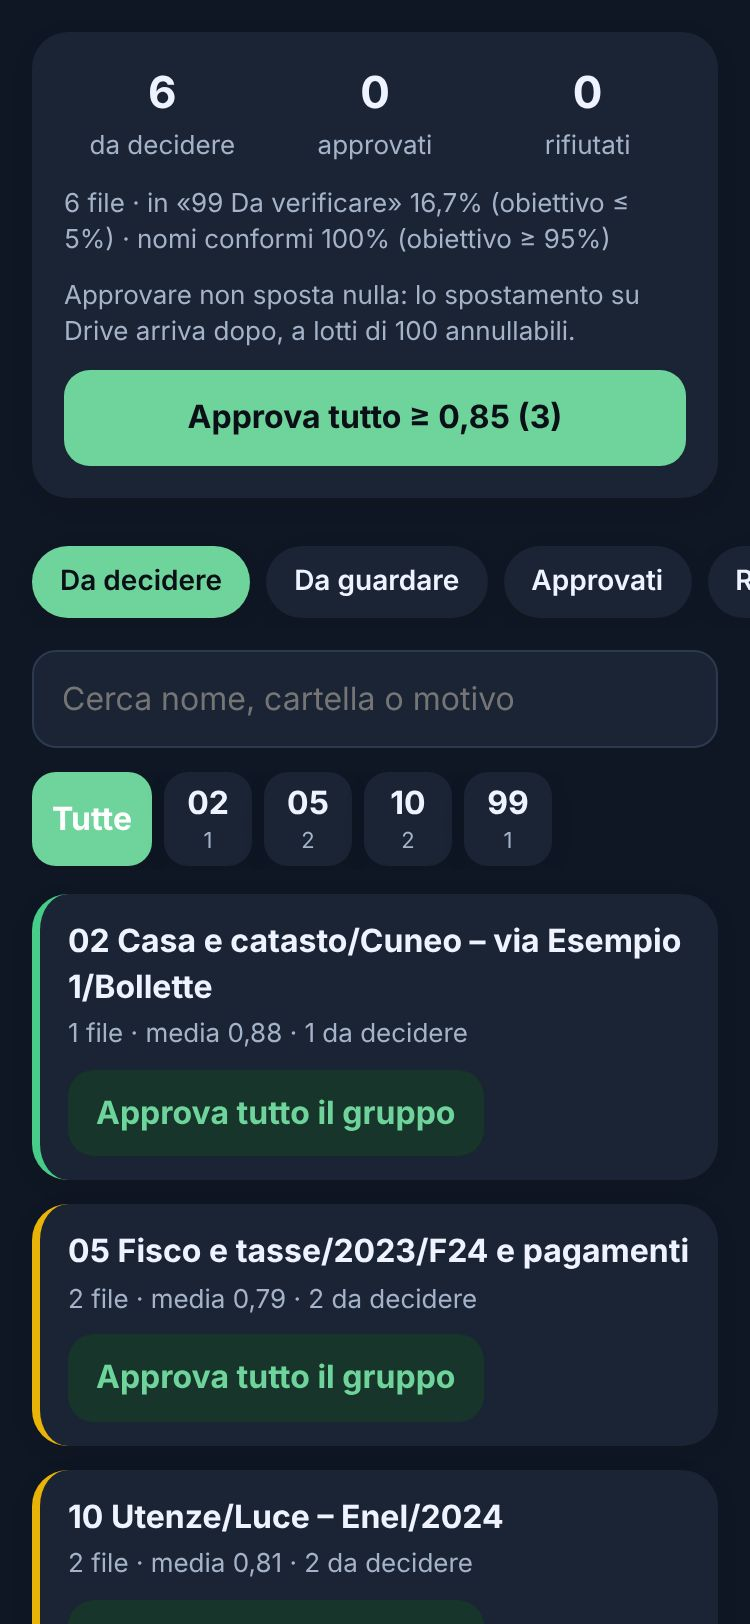
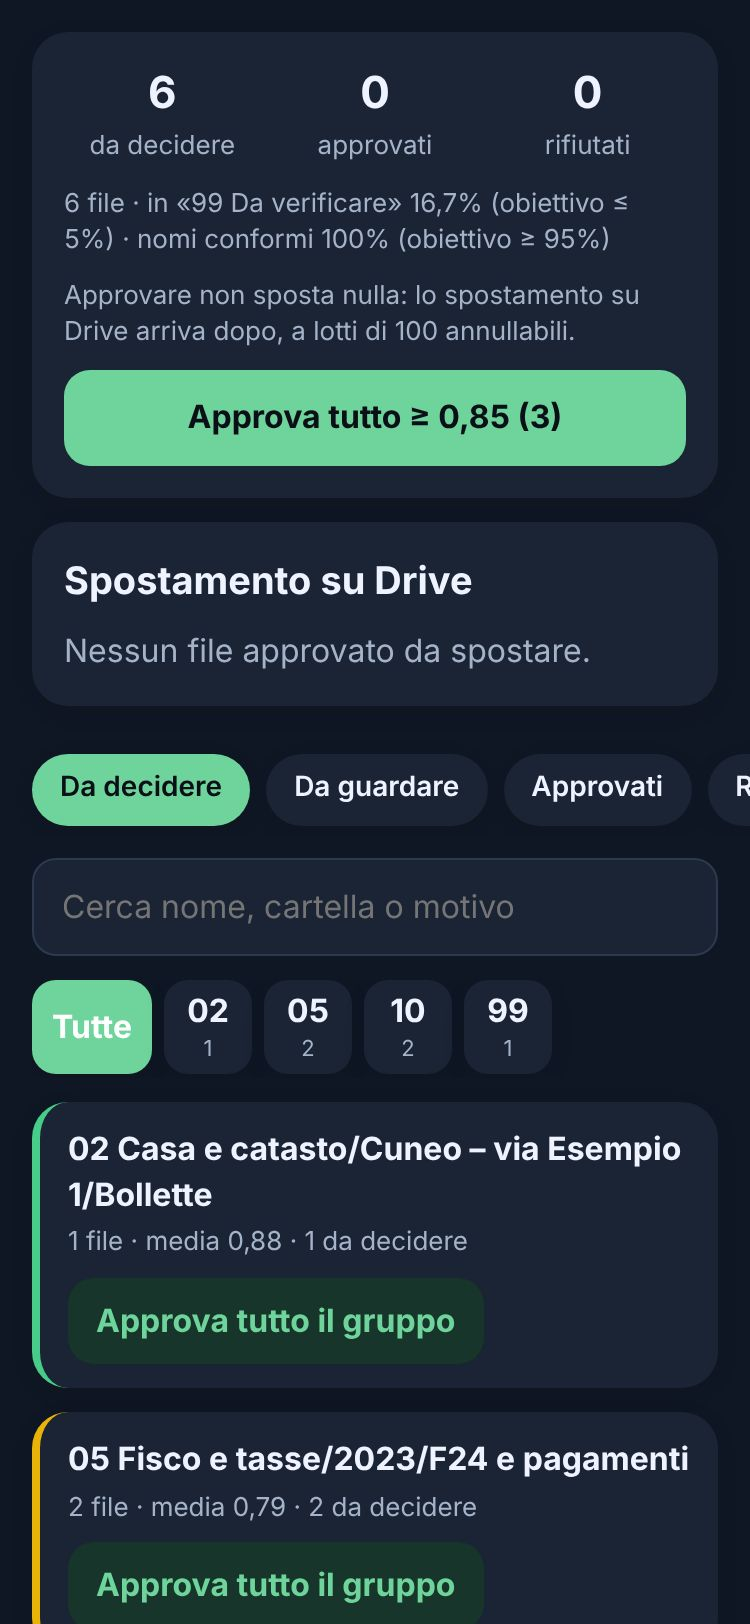
POL-VITA-ORDINA fase 3: spostamento su Drive a lotti di 100 con Annulla lotto
- migrazione: cartelle_mie.categoria_id, log_spostamenti, v_lotti_riordino
- Code.gs: esegui_lotto (solo righe approvate fuori da «99», mai i clinici,
  registro prima di spostare, scorciatoie e mai copie) e annulla_lotto
- Riordino: riquadro «Spostamento su Drive» con l'elenco dei lotti
- test della fase 3; documentazione e stato del task

Claude-Session: https://claude.ai/code/session_01RTzzfYV8weRoRYuhcBumW2

diff --git a/personal/src/sezioni/riordino/Riordino.jsx b/personal/src/sezioni/riordino/Riordino.jsx
@@ -8,11 +8,53 @@ import { Vuoto, Chips, Conferma, tokenSessione } from '../../ui.jsx';
 import {
   caricaPiano, caricaCategorie, approva, rifiuta, riproponi, rinomina, cambiaCartella, importaPiano,
   riepilogo, filtra, raggruppa, radici, livello, confidenzaTesto, controllaNome, FILTRI, SOGLIA_ALTA,
+  eseguiLotto, annullaLotto, caricaLotti, daEseguire,
 } from '../../lib/pianoRiordino.js';
 import './riordino.css';
 
 const STATI = { proposto: 'Da decidere', approvato: 'Approvato', rifiutato: 'Rifiutato', eseguito: 'Eseguito' };
 const MAX_GRUPPI = 60;
+const quando = (t) => new Date(t).toLocaleString('it-IT', { day: 'numeric', month: 'short', hour: '2-digit', minute: '2-digit' });
+
+// Fase 3: sposta su Drive a lotti di 100 le righe approvate; ogni lotto si può annullare.
+function Esecuzione({ righe, db, mostra, ricarica }) {
+  const [lotti, setLotti] = useState([]);
+  const [lavoro, setLavoro] = useState(null);
+  const [errore, setErrore] = useState(null);
+  const aggiornaLotti = useCallback(() => caricaLotti(db).then(setLotti).catch(() => {}), [db]);
+  useEffect(() => { aggiornaLotti(); }, [aggiornaLotti]);
+  const n = daEseguire(righe);
+  const fai = async (chi, f) => {
+    setLavoro(chi); setErrore(null);
+    try { await f(); await ricarica(); await aggiornaLotti(); } catch (e) { setErrore(e.message); } finally { setLavoro(null); }
+  };
+  const esegui = () => fai('esegui', async () => {
+    const r = await eseguiLotto({ token: await tokenSessione() });
+    mostra(`Spostati su Drive ${r.eseguiti} file${r.errori ? `, ${r.errori} non riusciti (restano approvati)` : ''}`);
+  });
+  const annulla = (l) => fai(l.lotto, async () => {
+    const r = await annullaLotto({ token: await tokenSessione(), lotto: l.lotto });
+    mostra(`Lotto annullato: ${r.annullati} file tornati dov'erano`);
+  });
+  return (
+    <section className="rr-carta" aria-label="Esecuzione su Drive">
+      <h2>Spostamento su Drive</h2>
+      <p>{n ? `${n} file approvati da spostare. Si fa a lotti di 100: ogni lotto si può annullare.` : 'Nessun file approvato da spostare.'}</p>
+      {errore && <p className="rr-errore" role="alert">{errore}</p>}
+      {n > 0 && <button type="button" className="pp-bottone" disabled={Boolean(lavoro)} onClick={esegui}>{lavoro === 'esegui' ? 'Sposto…' : `Sposta i prossimi ${Math.min(100, n)}`}</button>}
+      {lotti.length > 0 && (
+        <ul className="rr-lotti">
+          {lotti.map((l) => (
+            <li key={l.lotto}>
+              <span>{quando(l.iniziato_il)} · {l.eseguiti} spostati{l.errori ? ` · ${l.errori} errori` : ''}{l.annullati ? ` · ${l.annullati} annullati` : ''}</span>
+              {l.eseguiti > 0 && <button type="button" className="pp-bottone pp-bottone-chiaro" disabled={Boolean(lavoro)} onClick={() => annulla(l)}>{lavoro === l.lotto ? 'Annullo…' : 'Annulla lotto'}</button>}
+            </li>
+          ))}
+        </ul>
+      )}
+    </section>
+  );
+}
 
 function Riga({ x, aperta, onTocca, onAzione, categorie, ctx }) {
   const [modo, setModo] = useState(null); // 'cartella' | 'nome'
@@ -56,7 +98,7 @@ function Riga({ x, aperta, onTocca, onAzione, categorie, ctx }) {
               </span>
             </div>
           )}
-          {!modo && (
+          {!modo && x.stato !== 'eseguito' && (
             <span className="rr-tasti">
               {x.stato !== 'approvato' && <button type="button" className="pp-bottone" onClick={() => onAzione('approva')}>Approva</button>}
               <button type="button" className="pp-bottone pp-bottone-chiaro" onClick={() => { setValore(''); setModo('cartella'); }}>Cambia cartella</button>
@@ -170,6 +212,7 @@ export function VistaRiordino({ ctx, db = archivioDb }) {
         {chiedi && <Conferma testo={chiedi.testo} etichetta="Approva" onSi={() => { chiedi.fai(); setChiedi(null); }} onNo={() => setChiedi(null)} />}
       </section>
 
+      <Esecuzione righe={righe} db={db} mostra={mostra} ricarica={async () => setRighe(await caricaPiano(db))} />
       <Chips voci={FILTRI.map((f) => [f.id, f.nome])} attiva={filtro} onScegli={(f) => { setFiltro(f); setQuanti(MAX_GRUPPI); }} />
       <input className="rr-cerca" type="search" placeholder="Cerca nome, cartella o motivo" value={testo} onChange={(e) => { setTesto(e.target.value); setQuanti(MAX_GRUPPI); }} aria-label="Cerca nel piano" />
       <div className="rr-indice" role="tablist" aria-label="Cartelle principali">

diff --git a/personal/src/lib/pianoRiordino.js b/personal/src/lib/pianoRiordino.js
@@ -134,3 +134,31 @@ export async function importaPiano({ token }, fetchImpl = fetch) {
   if (!r.ok) throw new Error(r.errore === 'File mancante' ? 'Lo script pubblicato non sa ancora caricare il piano: va pubblicata la versione nuova.' : r.errore || 'Caricamento non riuscito.');
   return r;
 }
+
+// ---------------------------------------------------------------- fase 3: esecuzione su Drive a lotti
+async function chiamaScriptPiano(corpo, fetchImpl) {
+  if (!corpo.token) throw new Error('Sessione scaduta: esci e rientra.');
+  const res = await fetchImpl(URL_CARICAMENTO, { method: 'POST', headers: { 'Content-Type': 'text/plain;charset=utf-8' }, body: JSON.stringify(corpo) });
+  let r;
+  try { r = await res.json(); } catch { throw new Error('Lo script non ha risposto.'); }
+  if (!r.ok) throw new Error(r.errore === 'File mancante' ? 'Lo script pubblicato non sa ancora spostare i file: va pubblicata la versione nuova.' : r.errore || 'Operazione non riuscita.');
+  return r;
+}
+
+/** Sposta su Drive il prossimo lotto (al massimo 100 righe approvate). Mai le righe in «99». */
+export const eseguiLotto = ({ token }, fetchImpl = fetch) => chiamaScriptPiano({ token, azione: 'esegui_lotto' }, fetchImpl);
+
+/** Rimette i file del lotto dov'erano, con il nome di prima. */
+export function annullaLotto({ token, lotto }, fetchImpl = fetch) {
+  if (!/^[0-9a-f-]{36}$/i.test(String(lotto || ''))) return Promise.reject(new Error('Lotto non valido.'));
+  return chiamaScriptPiano({ token, azione: 'annulla_lotto', lotto }, fetchImpl);
+}
+
+export async function caricaLotti(db) {
+  const { data, error } = await db.from('v_lotti_riordino').select('*').order('iniziato_il', { ascending: false }).limit(20);
+  if (error) throw error;
+  return data || [];
+}
+
+/** Quante righe approvate restano da spostare (escluse quelle in «99»). */
+export const daEseguire = (righe) => righe.filter((x) => x.stato === 'approvato' && !String(x.percorso_nuovo).startsWith('99 ')).length;

diff --git a/personal/src/sezioni/riordino/riordino.css b/personal/src/sezioni/riordino/riordino.css
@@ -43,3 +43,6 @@
 .rr-modifica label { display: flex; flex-direction: column; gap: 4px; font-size: 13px; color: var(--pp-grigio); }
 .rr-modifica input { padding: 12px; border-radius: 10px; border: 1px solid var(--pp-linea); background: var(--pp-sfondo); color: var(--pp-inchiostro); font-size: 16px; }
 .rr-altri { align-self: center; }
+.rr-lotti { list-style: none; margin: 0; padding: 0; display: flex; flex-direction: column; gap: 8px; }
+.rr-lotti li { display: flex; flex-wrap: wrap; align-items: center; justify-content: space-between; gap: 8px; font-size: 14px; color: var(--pp-grigio); }
+.rr-lotti .pp-bottone { padding: 8px 12px; min-height: 44px; }

diff --git a/docs/architecture/pol-vita-ordina.md b/docs/architecture/pol-vita-ordina.md
@@ -187,3 +187,22 @@ Su indicazione di Luca («Fallo tu senza api») la classificazione l'ha fatta Cl
   - nomi conformi: 98,9%;
   - 347 cartelle di destinazione, al massimo 4 livelli;
   - confidenza: 1.789 righe a 0,85 o più, 4.881 fra 0,60 e 0,85.
+
+## Fase 3 — esecuzione su Drive (2026-11-22)
+- **Migrazione** `20261122200000_pol_vita_ordina_esecuzione.sql`, già applicata, additiva:
+  - `cartelle_mie.categoria_id`: le cartelle della tassonomia sono cartelle dell'app con la loro gemella su Drive, quindi lo stesso albero 1:1;
+  - `log_spostamenti`, una riga per file: cartella e nome di prima, cartelle dell'app di prima, scorciatoie create, esito;
+  - vista `v_lotti_riordino`.
+  - Sicurezza: RLS in sola lettura per il proprietario e REVOKE ad anon e PUBLIC; `get_advisors` non mostra problemi nuovi.
+- **Script** (web app @31, pubblicata su «Pubblica» di Luca; si torna indietro ripubblicando la 30):
+  - **`esegui_lotto`**: prende al massimo 100 righe `approvato` fuori da «99», in meno di 4,5 minuti.
+    1. Scrive il registro prima di toccare il file.
+    2. Sposta il file con `moveTo` nella cartella della tassonomia, che crea con i padri se manca.
+    3. Gli dà il nome nuovo.
+    4. Crea le scorciatoie Drive, mai copie.
+    5. Fissa il documento (`drive_fissa`, `drive_rinomina = false`) e lo mette nella cartella dell'app, togliendolo dalle cartelle dell'app di prima.
+    6. Segna la riga del piano `eseguito`.
+
+    Se qualcosa si interrompe a metà, il file torna dov'era. Il fascicolo `clinico_pazienti` non si tocca mai.
+  - **`annulla_lotto`**: rimette ogni file nella cartella e con il nome di prima, sposta nel Cestino solo le scorciatoie create dal lotto, ripristina documento e cartelle dell'app, e riporta la riga ad `approvato`.
+- **App:** nella schermata «Riordino», il riquadro «Spostamento su Drive» ha il tasto «Sposta i prossimi 100» e l'elenco dei lotti, ciascuno con «Annulla lotto».

diff --git a/docs/coordination/current-task.md b/docs/coordination/current-task.md
@@ -13,7 +13,7 @@
 - PHASES 1–2 MERGED: PR #339 squash 9800c32 after PO "Mergia" (all checks green, head a7c1855 unchanged).
 - SCRIPT PUBLISHED 2026-11-22 on Luca's "Pubblica": online HEAD pulled and compared = master 9800c32; web app deployment AKfycbzQf7…UDw @29 → @30 (same URL). Rollback: redeploy 29.
 - PLAN LOADED (Luca tapped «Carica il piano proposto»: 7,070 rows, 520 categories). PO 2026-11-22: "É un lavoro troppo lungo da fare, ho chiesto a te di farlo apposta" → Claude Code reviewed the big folders and the doubts, corrected 1,138 rows in the DB (38 new categories), APPROVED 6,610 rows (all outside «99»); 460 left «proposto» in «99 Da verificare» (380 doubts, 60 identical copies, 20 possible clinical files). Details: pol-vita-ordina.md § Revisione.
-- NEXT: phase 3 (execution of approved rows only, batches of 100, `log_spostamenti`, «Annulla lotto»): new Code.gs action + migration + app button; needs a new script version (publish on Luca's OK).
+- PHASE 3 (built, PO "Pubblica" 2026-11-22): migration `20261122200000_pol_vita_ordina_esecuzione.sql` applied (cartelle_mie.categoria_id, log_spostamenti, v_lotti_riordino; RLS read-only owner, REVOKE anon/PUBLIC, advisors clean of new findings); Code.gs `esegui_lotto` / `annulla_lotto`; online script pulled = master before push; web app @30 → @31 (rollback: 30). App: «Spostamento su Drive» in Riordino (button + lots with «Annulla lotto»). Validation: npm test 1936/1936, build + build:personal PASS, node --check OK, visual personal-riordino PASS. No lot executed yet (the app button runs with Luca's session).
 
 # Current task — PERSONAL-ESPLORA-WIN11 (2026-11-21)
 - OWNER Claude Code; branch `ccr-37864811-5h4ztp` (from master f3d241a = PR #333 IMPOSTAZIONI-UNICHE merged; no overlap).
